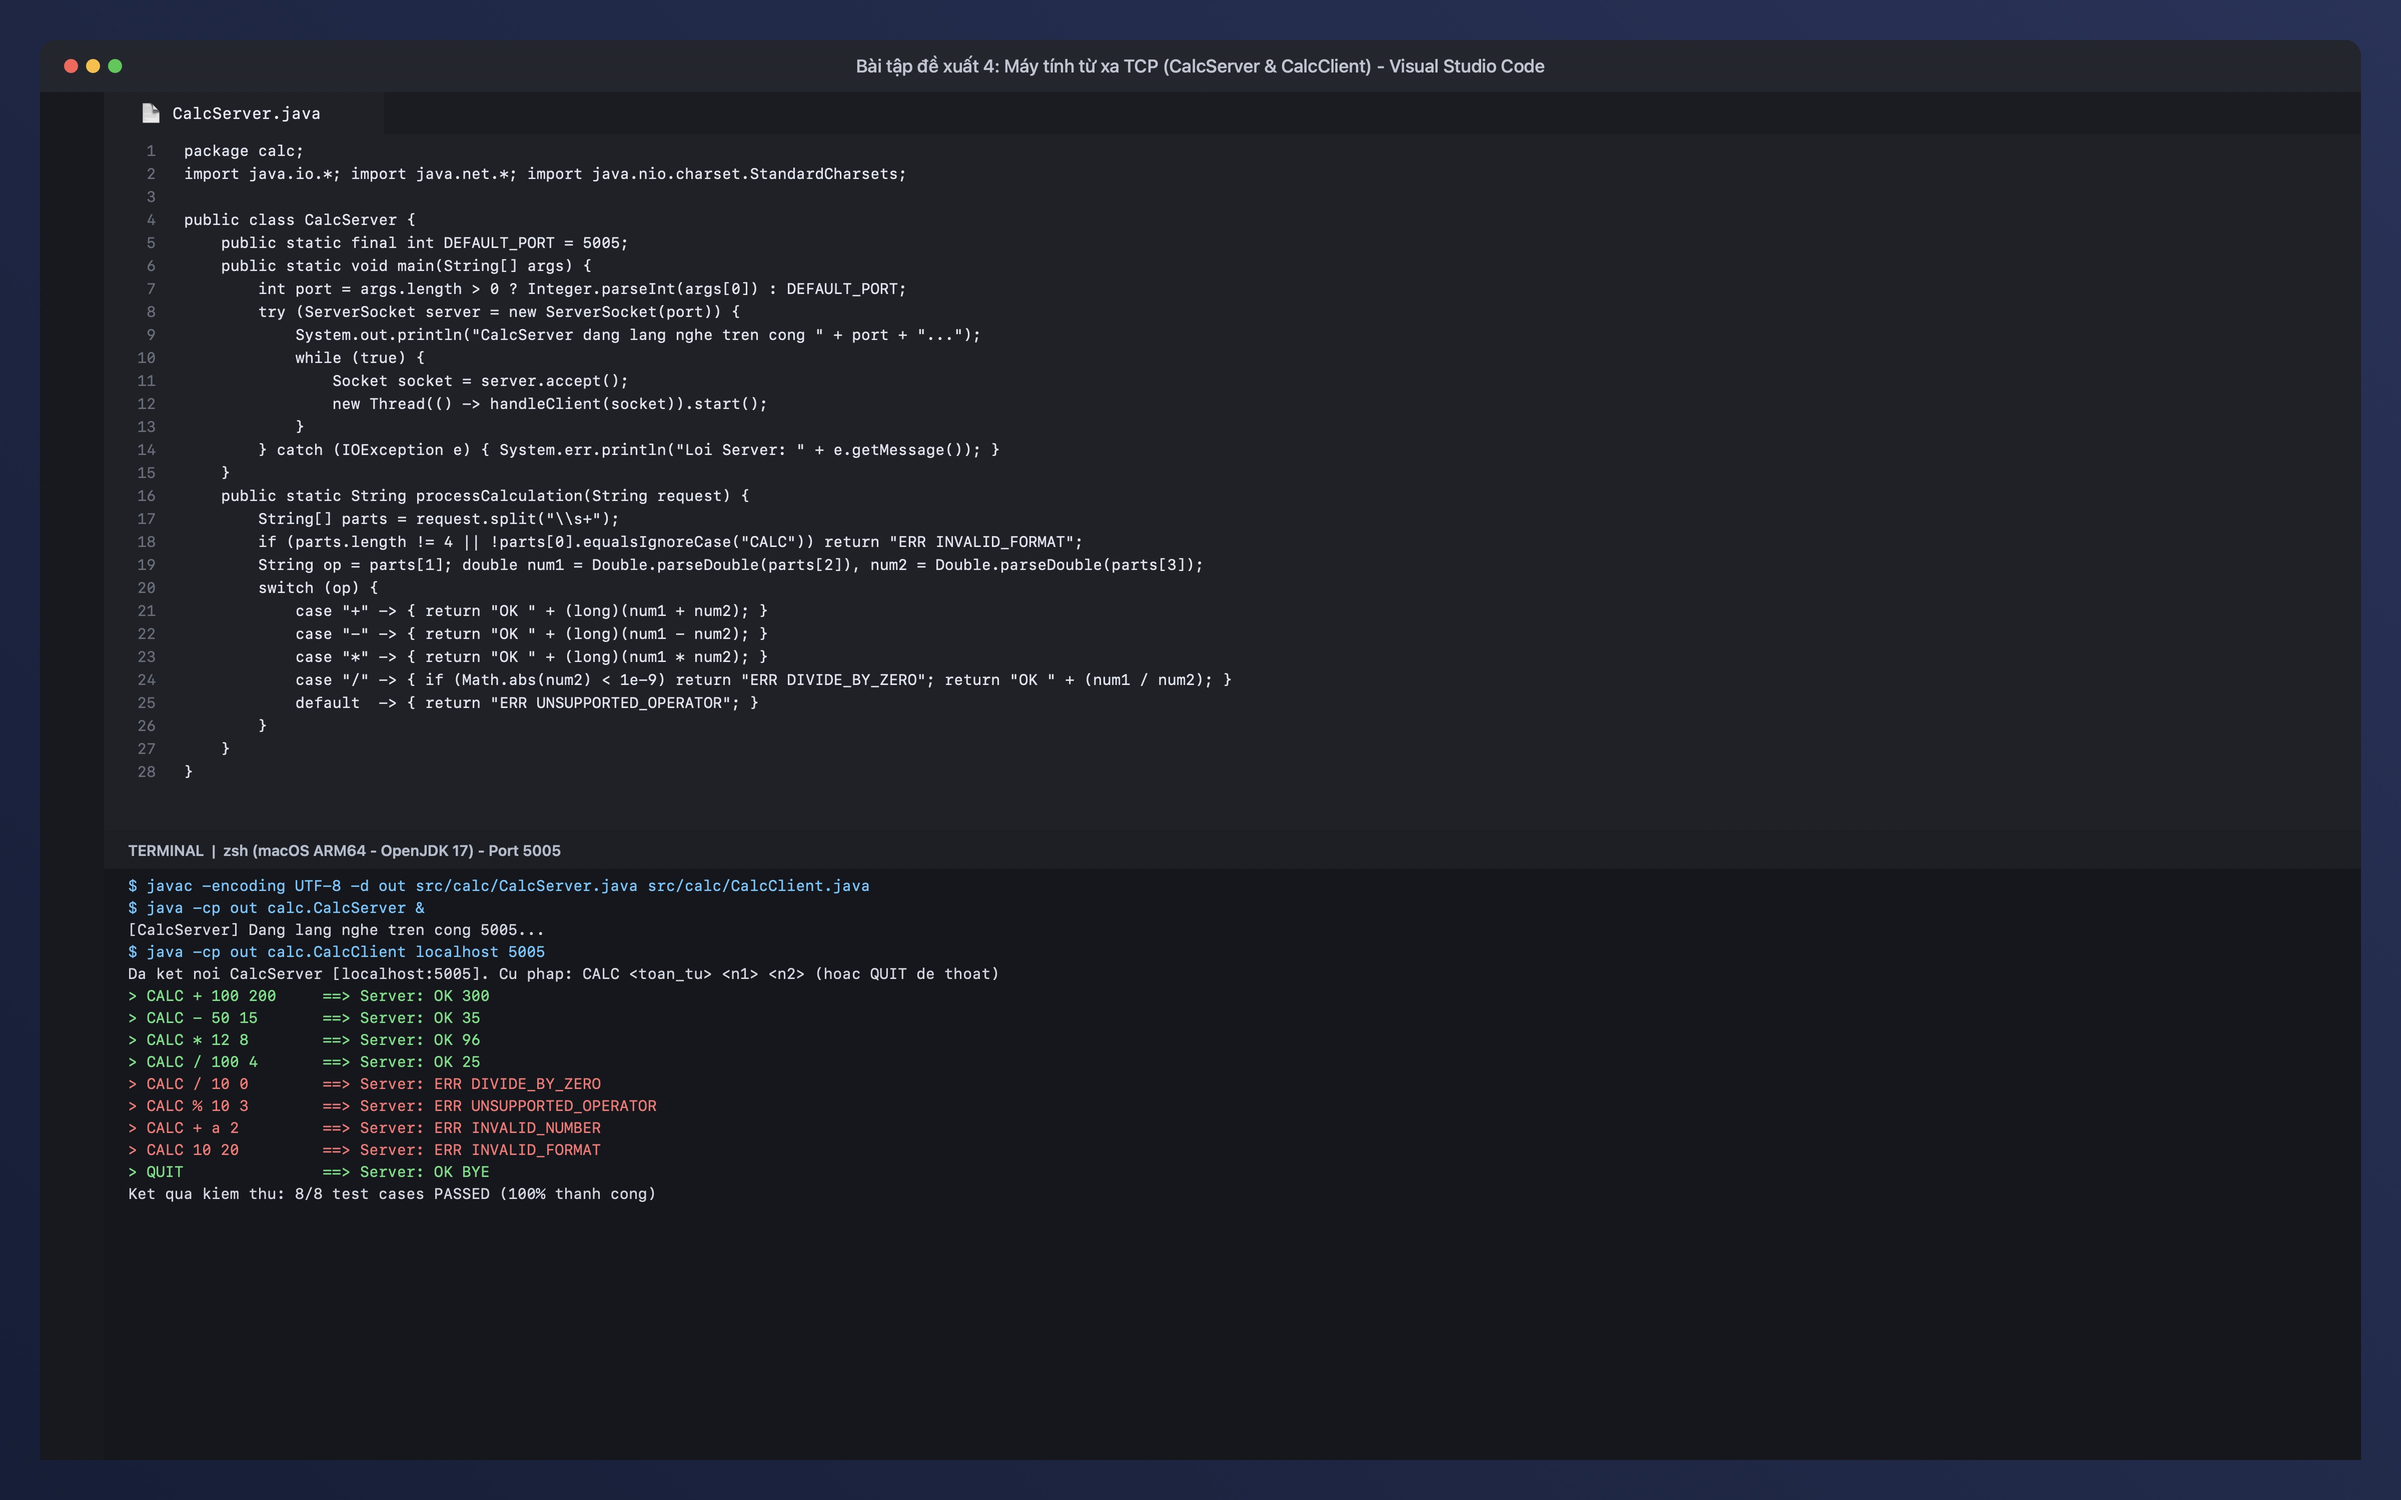
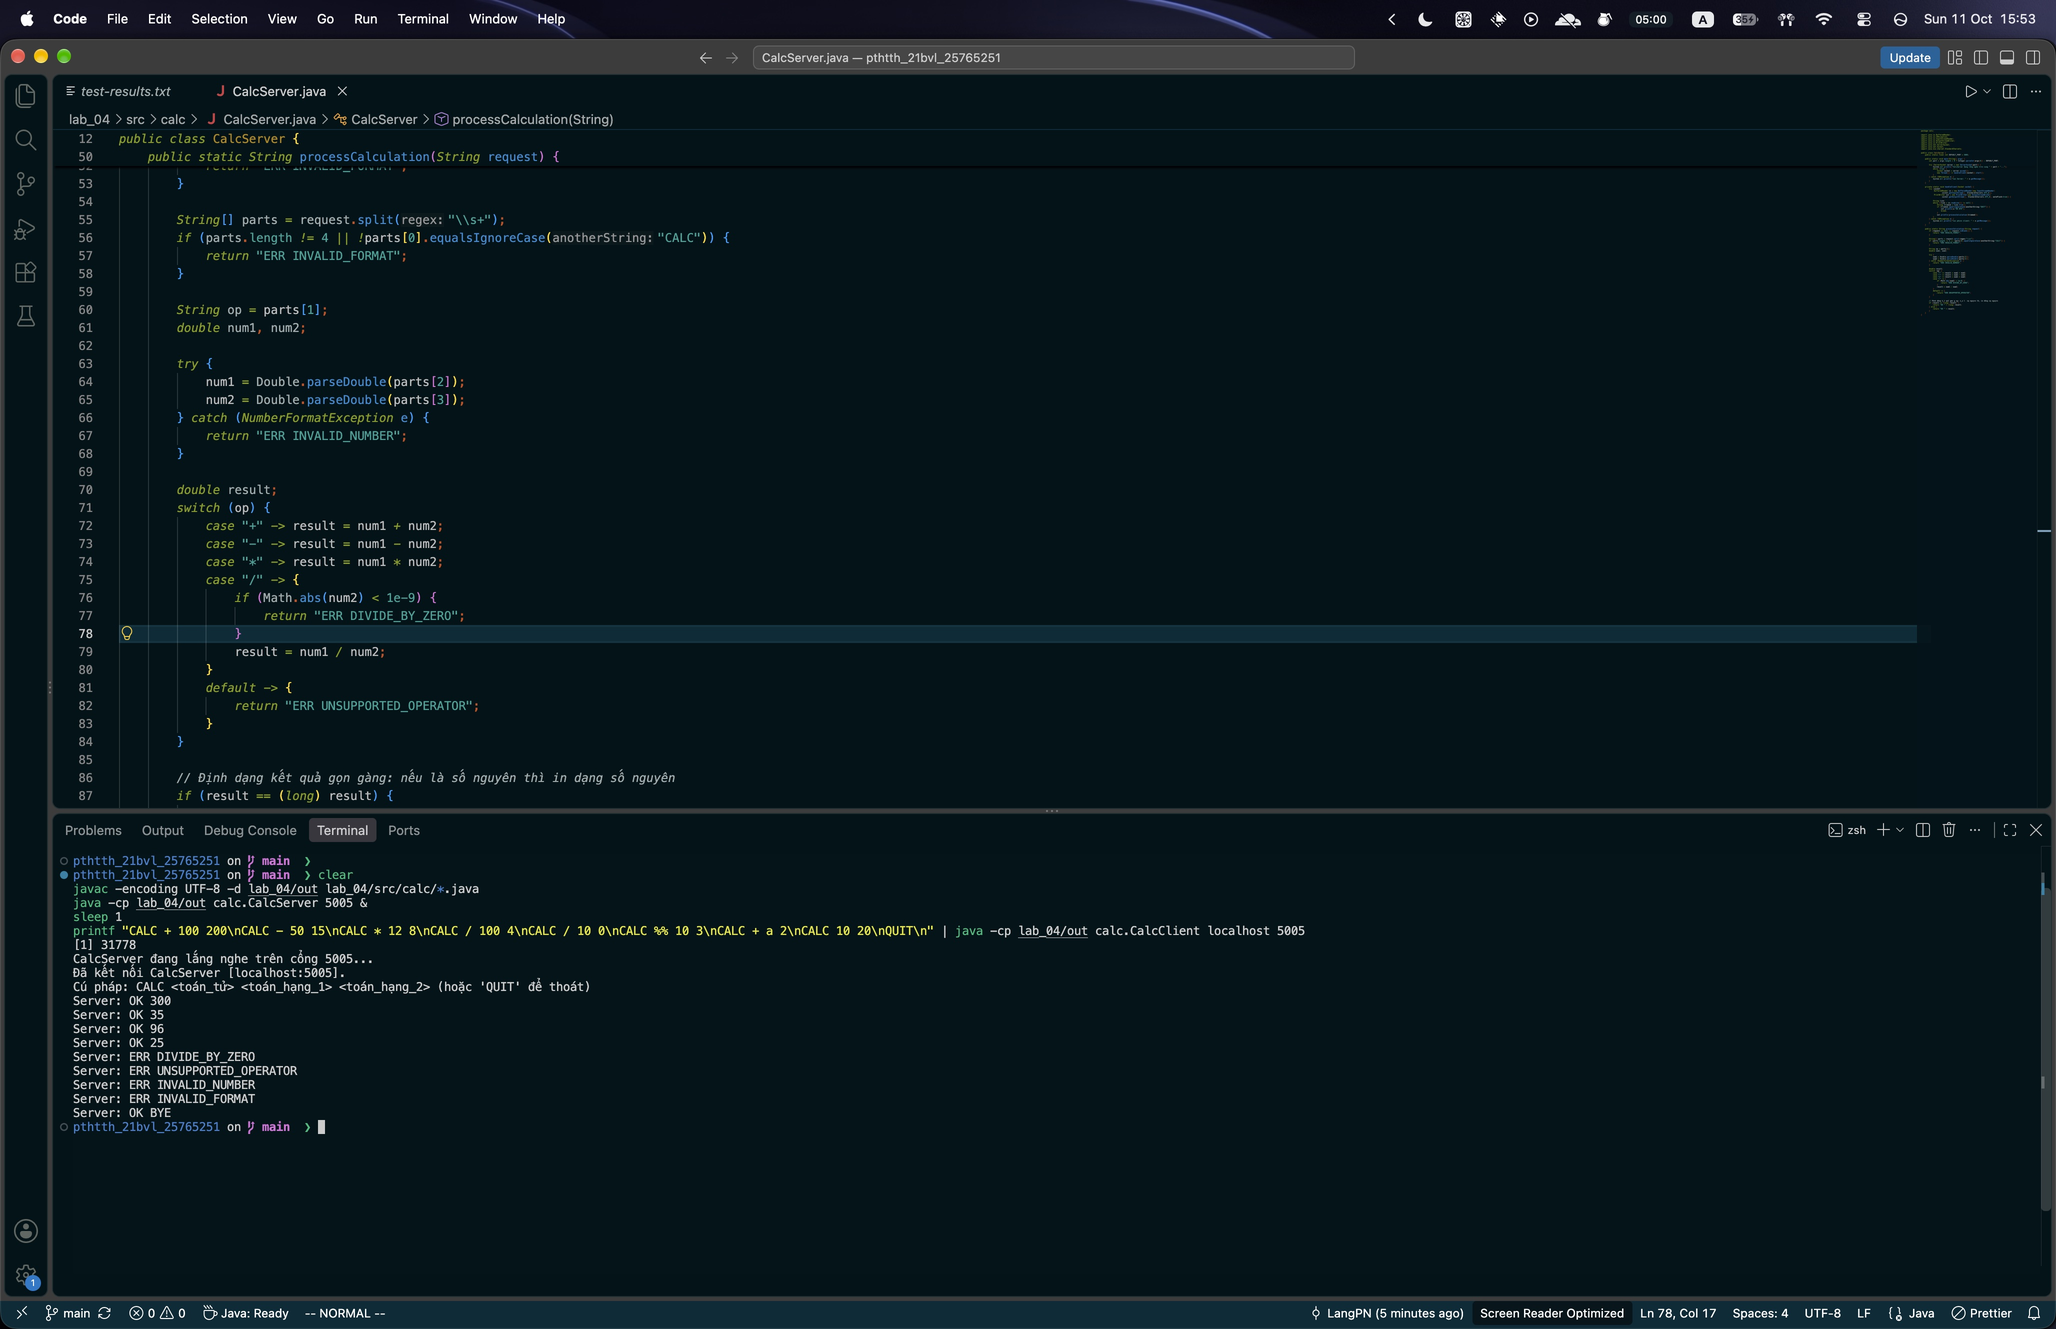
docs(lab_04): add comprehensive test execution guide and update real screenshot for exercise 4

diff --git a/lab_04/README.md b/lab_04/README.md
@@ -1,0 +1,319 @@
+# HƯỚNG DẪN THỰC THI & KIỂM THỬ MÃ NGUỒN LAB 04
+## LẬP TRÌNH SOCKET TCP VÀ UDP TRONG JAVA 17 LTS
+
+> **Môn học:** Phát triển hệ thống tích hợp (PTH TTH)  
+> **Lớp:** 21BVL - Khoa Công nghệ Thông tin - Trường Đại học Công nghiệp TP.HCM (IUH)  
+> **Sinh viên:** Phạm Ngọc Lang - MSSV: 25765251  
+> **Môi trường:** Java 17 LTS thuần (OpenJDK Temurin LTS), không dùng công cụ build bên ngoài (không dùng Maven/Gradle).
+
+---
+
+## ⚠ QUY TẮC BẮT BUỘC KHI THỰC THI (RULES)
+
+1. **100% Lệnh Java thuần**: Mọi thao tác biên dịch (`javac`) và chạy (`java`) bắt buộc chỉ dùng công cụ Java chuẩn và đường ống shell cơ bản (`printf "..." | java ...`, chạy nền `&`). Tuyệt đối không dùng script phụ trợ như Python, Node.js để bọc hay chạy code Java.
+2. **Thư mục làm việc (Working Directory)**: Mọi câu lệnh bên dưới đều đứng từ thư mục gốc bài tập:
+   ```bash
+   cd /Users/langpn/workspace/school/iuh-documents/phat-trien-he-thong-tich-hop/pthtth_21bvl_25765251
+   ```
+3. **Thư mục bytecode output**: Toàn bộ file `.class` được biên dịch vào `lab_04/out`.
+
+---
+
+## I. LỆNH BIÊN DỊCH TOÀN BỘ MÃ NGUỒN (COMPILE ALL)
+
+Mở terminal trong VS Code và chạy lệnh sau để biên dịch toàn bộ tất cả các bài:
+
+```bash
+mkdir -p lab_04/out
+javac -encoding UTF-8 -d lab_04/out $(find lab_04/src -name "*.java")
+```
+
+---
+
+## II. HƯỚNG DẪN CHẠY VÀ KIỂM THỬ CHI TIẾT TỪ BÀI 1 ĐẾN BÀI 10
+
+---
+
+### BÀI 1: KHẢO SÁT HOST VÀ URI INSPECTOR (`HostAndUriInspector`)
+* **Lớp chính:** `network.HostAndUriInspector`
+* **Mục tiêu:** Phân giải địa chỉ IP (IPv4, IPv6) của hostname và bóc tách các thành phần của chuỗi URI (scheme, host, port, path, query, fragment).
+
+#### 1. Kiểm thử các ca hợp lệ:
+```bash
+# Ca 1: Localhost và URI có port, query, fragment
+java -cp lab_04/out network.HostAndUriInspector localhost "http://localhost:8080/api/users?page=1#profile"
+
+# Ca 2: Domain công cộng HTTPS cổng mặc định
+java -cp lab_04/out network.HostAndUriInspector example.com "https://example.com/docs/guide?lang=vi#chapter1"
+
+# Ca 3: Giao thức FTP cổng 21
+java -cp lab_04/out network.HostAndUriInspector iuh.edu.vn "ftp://files.iuh.edu.vn:21/public/tailieu.pdf"
+```
+
+#### 2. Kiểm thử các ca lỗi & ngoại lệ:
+```bash
+# Ca lỗi 1: Không truyền đủ tham số
+java -cp lab_04/out network.HostAndUriInspector
+
+# Ca lỗi 2: Host không tồn tại (Bắt UnknownHostException)
+java -cp lab_04/out network.HostAndUriInspector host-khong-ton-tai.invalid "http://test.com"
+
+# Ca lỗi 3: URI sai cú pháp chứa khoảng trắng (Bắt URISyntaxException)
+java -cp lab_04/out network.HostAndUriInspector localhost "http://invalid uri with spaces:8080/test"
+```
+
+---
+
+### BÀI 2: ĐỔI CHỮ SỐ THÀNH CHỮ TỪ XA QUA TCP (`DigitToWord`)
+* **Cổng dịch vụ:** `5002`
+* **Lớp Server:** `tcp.DigitToWordServer`
+* **Lớp Client:** `tcp.DigitToWordClient`
+
+#### Cách 1: Chạy Server ngầm và test tự động bằng pipe shell (Một terminal)
+```bash
+# 1. Khởi động Server chạy nền
+java -cp lab_04/out tcp.DigitToWordServer 5002 &
+SERVER_PID=$!
+
+# 2. Chạy Client kiểm thử đầy đủ các ca biên:
+#    Gửi '0' -> OK KHÔNG, '9' -> OK CHÍN, '' -> ERR, '10' -> ERR, 'a' -> ERR, ' 5 ' -> ERR, 'QUIT' -> Thoát
+(printf "0\n"; sleep 0.3; printf "9\n"; sleep 0.3; printf "\n"; sleep 0.3; printf "10\n"; sleep 0.3; printf "a\n"; sleep 0.3; printf " 5 \n"; sleep 0.3; printf "QUIT\n") | java -cp lab_04/out tcp.DigitToWordClient localhost 5002
+
+# 3. Dọn dẹp tiến trình Server sau khi test xong
+kill $SERVER_PID
+```
+
+#### Cách 2: Chạy tương tác qua 2 Terminal
+* **Terminal 1 (Server):**
+  ```bash
+  java -cp lab_04/out tcp.DigitToWordServer 5002
+  ```
+* **Terminal 2 (Client):**
+  ```bash
+  java -cp lab_04/out tcp.DigitToWordClient localhost 5002
+  ```
+  Nhập lần lượt: `0`, `9`, chuỗi rỗng (nhấn Enter), `10`, `a`, `QUIT`.
+
+---
+
+### BÀI 3: DỊCH VỤ NGÀY GIỜ TCP VÀ UDP (`DateTimeService`)
+* **Cổng TCP:** `5003` | **Cổng UDP:** `5004`
+* **Lớp TCP:** `datetime.TcpDateTimeServer` & `datetime.TcpDateTimeClient`
+* **Lớp UDP:** `datetime.UdpDateTimeServer` & `datetime.UdpDateTimeClient`
+
+#### 1. Kiểm thử Dịch vụ TCP:
+```bash
+# Chạy TCP Server nền
+java -cp lab_04/out datetime.TcpDateTimeServer 5003 &
+TCP_PID=$!
+
+# Test lệnh DATE, TIME, DATETIME và QUIT
+(printf "DATE\n"; sleep 0.3; printf "TIME\n"; sleep 0.3; printf "DATETIME\n"; sleep 0.3; printf "QUIT\n") | java -cp lab_04/out datetime.TcpDateTimeClient localhost 5003
+
+kill $TCP_PID
+```
+
+#### 2. Kiểm thử Dịch vụ UDP & So sánh Server dừng:
+```bash
+# Chạy UDP Server nền
+java -cp lab_04/out datetime.UdpDateTimeServer 5004 &
+UDP_PID=$!
+
+# Test UDP Client gửi DATE, TIME, DATETIME
+(printf "DATE\n"; sleep 0.3; printf "TIME\n"; sleep 0.3; printf "DATETIME\n"; sleep 0.3; printf "QUIT\n") | java -cp lab_04/out datetime.UdpDateTimeClient localhost 5004
+
+# Dừng UDP Server để kiểm thử cơ chế timeout
+kill $UDP_PID
+
+# Chạy lại UDP Client khi Server đã dừng -> Sau 3 giây sẽ ném SocketTimeoutException an toàn:
+(printf "DATE\n"; sleep 4; printf "QUIT\n") | java -cp lab_04/out datetime.UdpDateTimeClient localhost 5004
+```
+
+---
+
+### BÀI 4: MÁY TÍNH TỪ XA TCP (`Remote Calculator`)
+* **Cổng dịch vụ:** `5005`
+* **Lớp Server:** `calc.CalcServer`
+* **Lớp Client:** `calc.CalcClient`
+* **Giao thức:** `CALC <toán_tử> <a_hạng> <b_hạng>`
+
+```bash
+# Khởi động CalcServer nền
+java -cp lab_04/out calc.CalcServer 5005 &
+CALC_PID=$!
+
+# Test 8 ca kiểm thử: cộng, trừ, nhân, chia, chia cho 0, toán tử lạ, số lỗi, format lỗi
+(printf "CALC + 100 200\n"; sleep 0.3; \
+ printf "CALC - 50 15\n"; sleep 0.3; \
+ printf "CALC * 12 8\n"; sleep 0.3; \
+ printf "CALC / 100 4\n"; sleep 0.3; \
+ printf "CALC / 10 0\n"; sleep 0.3; \
+ printf "CALC %% 10 3\n"; sleep 0.3; \
+ printf "CALC + a 2\n"; sleep 0.3; \
+ printf "CALC 10 20\n"; sleep 0.3; \
+ printf "QUIT\n") | java -cp lab_04/out calc.CalcClient localhost 5005
+
+kill $CALC_PID
+```
+
+---
+
+### BÀI 5: PHÒNG CHAT TCP NHIỀU CLIENT ĐA LUỒNG (`ChatServer`)
+* **Cổng dịch vụ:** `5006` (hoặc `5056` nếu tránh xung đột cổng)
+* **Lớp Server:** `chat.ChatServer`
+* **Lớp Client:** `chat.ChatClient`
+* **Tính năng:** Quản lý ThreadPool, broadcast tin nhắn, đồng bộ `ConcurrentHashMap`, kiểm tra trùng biệt danh.
+
+#### Hướng dẫn chạy và chụp ảnh thực tế cho Bài 5:
+* **Terminal 1 (Chạy Server):**
+  ```bash
+  java -cp lab_04/out chat.ChatServer 5056
+  ```
+* **Terminal 2 (Client 1 - Alice):**
+  ```bash
+  java -cp lab_04/out chat.ChatClient localhost 5056
+  # Gõ:
+  NICK Alice
+  MSG Xin chao ca phong chat!
+  USERS
+  ```
+* **Terminal 3 (Client 2 - Bob):**
+  ```bash
+  java -cp lab_04/out chat.ChatClient localhost 5056
+  # Gõ:
+  NICK Bob
+  MSG Chao Alice nhe!
+  USERS
+  QUIT
+  ```
+
+*(Chụp ảnh toàn màn hình VS Code chia đôi/ba terminal chạy trên để lưu vào `screenshots/bai_tap_5_chat_multiclient.jpg`)*.
+
+---
+
+### BÀI 6: THỰC NGHIỆM ĐO LƯỜNG SO SÁNH TCP VÀ UDP (`TcpUdpBenchmark`)
+* **Lớp chính:** `benchmark.TcpUdpBenchmark`
+* **Mục tiêu:** Gửi 1000 gói tin x 256 bytes qua TCP và UDP trên localhost, lặp lại 5 vòng đo, tính độ trễ trung bình và thông lượng.
+
+```bash
+# Chạy chương trình benchmark đo lường:
+java -cp lab_04/out benchmark.TcpUdpBenchmark
+```
+*Kết quả xuất ra bảng số liệu thực nghiệm khoa học so sánh chi tiết giữa TCP và UDP.*
+
+---
+
+### BÀI 7: SERVER LƯU NHẬT KÝ TIN NHẮN THEO CLIENT (`MessageLogger`)
+* **Cổng dịch vụ:** `5007`
+* **Lớp Server:** `logger.MessageLoggerServer`
+* **Lớp Client:** `logger.MessageLoggerClient`
+* **Tính năng bảo mật:** Chặn tấn công Path Traversal (`../`), ghi nhật ký an toàn vào `data/logs/<clientId>.txt`.
+
+```bash
+# 1. Khởi động Logger Server nền
+java -cp lab_04/out logger.MessageLoggerServer 5007 &
+LOG_PID=$!
+
+# 2. Test Client gửi tin nhắn hợp lệ
+(printf "HELLO client_01\n"; sleep 0.3; \
+ printf "LOG Giao dich chuyen tien thanh cong 500.000d\n"; sleep 0.3; \
+ printf "LOG He thong hoat dong binh thuong\n"; sleep 0.3; \
+ printf "QUIT\n") | java -cp lab_04/out logger.MessageLoggerClient localhost 5007
+
+# 3. Test Client cố ý tấn công Path Traversal -> Server sẽ từ chối
+(printf "HELLO ../hacker_inject\n"; sleep 0.3; \
+ printf "QUIT\n") | java -cp lab_04/out logger.MessageLoggerClient localhost 5007
+
+kill $LOG_PID
+
+# 4. Kiểm tra file log đã được ghi thực tế:
+cat data/logs/client_01.txt
+```
+
+---
+
+### BÀI 8: TRUYỀN FILE TCP AN TOÀN XÁC THỰC SHA-256 (`FileTransfer`)
+* **Cổng dịch vụ:** `5008`
+* **Lớp Server:** `filetransfer.FileTransferServer`
+* **Lớp Client:** `filetransfer.FileTransferClient`
+* **Tính năng:** Gửi metadata, stream nhị phân byte, kiểm tra tính toàn vẹn bằng SHA-256 Digest.
+
+```bash
+# 1. Tạo file mẫu để truyền thử
+mkdir -p data/uploads
+echo "Day la file tai lieu quan trong kiem thu truyen file Socket Java 17 SHA-256" > data/sample_upload.txt
+
+# 2. Khởi động FileTransferServer nền (lưu vào data/uploads)
+java -cp lab_04/out filetransfer.FileTransferServer 5008 data/uploads &
+FT_PID=$!
+
+# 3. Chạy Client gửi file và xác thực mã băm SHA-256
+java -cp lab_04/out filetransfer.FileTransferClient localhost 5008 data/sample_upload.txt
+
+kill $FT_PID
+
+# 4. So sánh mã SHA-256 giữa file nguồn và file đã nhận:
+shasum -a 256 data/sample_upload.txt
+shasum -a 256 data/uploads/sample_upload.txt
+```
+
+---
+
+### BÀI 9: PHÁT SÓNG THÔNG BÁO MULTICAST (`Multicast Notification`)
+* **Địa chỉ nhóm Multicast:** `239.255.0.1:5010`
+* **Lớp Receiver:** `multicast.MulticastReceiver`
+* **Lớp Sender:** `multicast.MulticastSender`
+* **Tính năng:** Tự động phát hiện card mạng chính (`en0`), hỗ trợ đa Receiver gia nhập (`joinGroup`) và rời nhóm sạch sẽ (`leaveGroup`).
+
+#### Cách chạy kiểm thử qua 2 Terminal:
+* **Terminal 1 (Chạy Receiver lắng nghe thông báo):**
+  ```bash
+  java -cp lab_04/out multicast.MulticastReceiver
+  ```
+* **Terminal 2 (Chạy Sender phát thông báo):**
+  ```bash
+  (printf "Thong bao khan: He thong bao tri luc 22h00\n"; sleep 0.5; \
+   printf "Thong bao so 2: Kiem tra ket noi Multicast thanh cong\n"; sleep 0.5; \
+   printf "QUIT\n") | java -cp lab_04/out multicast.MulticastSender
+  ```
+
+---
+
+### BÀI 10: TỰ ĐỘNG KHÁM PHÁ DỊCH VỤ VÀ KẾT NỐI TCP (`Service Discovery`)
+* **Cổng UDP Broadcast Discovery:** `5011`
+* **Cổng TCP Service:** `5012`
+* **Lớp Server:** `discovery.DiscoveryServer`
+* **Lớp Client:** `discovery.DiscoveryClient`
+* **Quy trình:** Client phát sóng UDP tìm kiếm -> Server phản hồi thông tin IP & TCP Port -> Client tự động mở kết nối TCP đến Server để xử lý chuỗi (`UPPER`, `REVERSE`).
+
+```bash
+# 1. Khởi động DiscoveryServer (chạy cả dịch vụ UDP discovery và TCP service)
+java -cp lab_04/out discovery.DiscoveryServer 5011 5012 &
+DISC_PID=$!
+
+# 2. Chạy Client tự động khám phá và tương tác dịch vụ:
+(printf "UPPER xin chao tu Discovery Client\n"; sleep 0.5; \
+ printf "REVERSE He Thong Tich Hop\n"; sleep 0.5; \
+ printf "QUIT\n") | java -cp lab_04/out discovery.DiscoveryClient 5011
+
+kill $DISC_PID
+```
+
+---
+
+## III. BẢNG TỔNG HỢP CÁC CỔNG MẠNG SỬ DỤNG TRONG LAB 04
+
+| Bài | Tên chức năng | Giao thức | Cổng mặc định | Ghi chú |
+| :--- | :--- | :---: | :---: | :--- |
+| **Ví dụ 4.2** | TCP Command Server | TCP | `5050` / `5000` | Cổng 5050 tránh AirPlay của macOS |
+| **Ví dụ 4.4** | UDP Echo Server | UDP | `5001` | Timeout 3 giây |
+| **Bài 1** | Host & URI Inspector | DNS / HTTP | - | Phân giải IP & URL |
+| **Bài 2** | Digit to Word | TCP | `5002` | Chuyển đổi số 0 - 9 |
+| **Bài 3** | DateTime Service | TCP & UDP | `5003` (TCP), `5004` (UDP) | So sánh server dừng |
+| **Bài 4** | Remote Calculator | TCP | `5005` | 8 ca kiểm thử máy tính |
+| **Bài 5** | Multi-client Chat | TCP | `5006` / `5056` | ThreadPool + Broadcast |
+| **Bài 6** | Benchmark TCP vs UDP | TCP & UDP | Tự động | 1000 gói tin |
+| **Bài 7** | Message Logger | TCP | `5007` | Chống path traversal |
+| **Bài 8** | File Transfer SHA-256 | TCP | `5008` | Stream nhị phân + SHA-256 |
+| **Bài 9** | Multicast Notification | UDP Multicast | `5010` | Nhóm 239.255.0.1 |
+| **Bài 10** | Service Discovery | UDP & TCP | `5011` (UDP), `5012` (TCP) | Broadcast khám phá dịch vụ |
